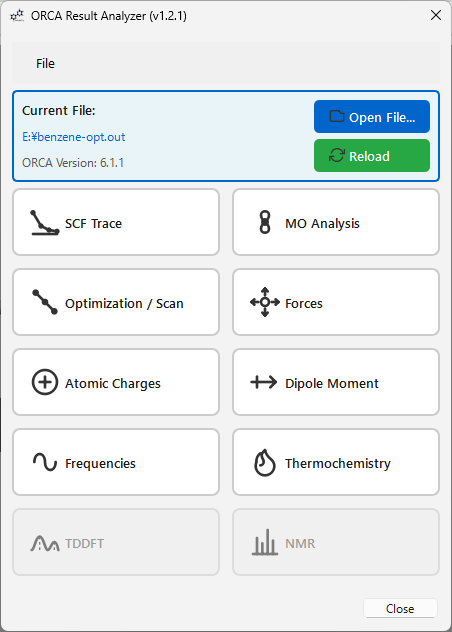
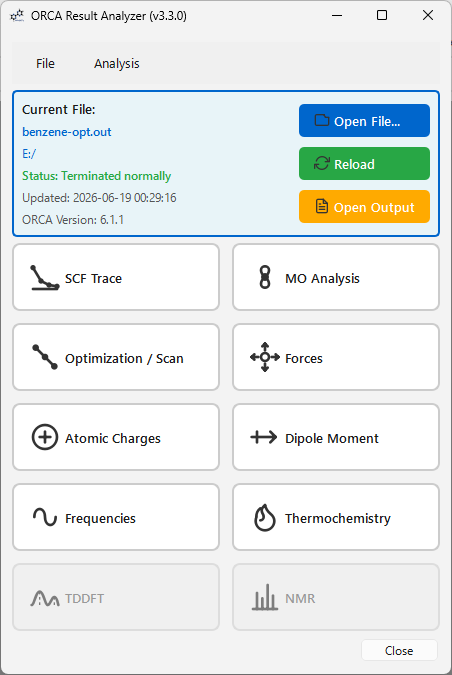
Implement ORCA run status parser/UI visualization, Open Output button/menu, and bump version to v3.3.0

diff --git a/orca_result_analyzer/gui.py b/orca_result_analyzer/gui.py
@@ -14,8 +14,8 @@ from PyQt6.QtWidgets import (
     QSizePolicy,
     QApplication,
 )
-from PyQt6.QtGui import QAction, QIcon
-from PyQt6.QtCore import QSize, Qt, QObject, QEvent
+from PyQt6.QtGui import QAction, QIcon, QDesktopServices
+from PyQt6.QtCore import QSize, Qt, QObject, QEvent, QUrl
 from .parser import OrcaParser
 
 
@@ -152,6 +152,12 @@ class OrcaResultAnalyzerDialog(QDialog):
         reload_action.triggered.connect(self.reload_file)
         file_menu.addAction(reload_action)
 
+        view_output_action = QAction("Open &Output File", self)
+        view_output_action.setShortcut("Ctrl+Shift+O")
+        view_output_action.setIcon(self.get_icon("menu_output.svg"))
+        view_output_action.triggered.connect(self.open_output_file)
+        file_menu.addAction(view_output_action)
+
         file_menu.addSeparator()
 
         close_action = QAction("&Close", self)
@@ -225,6 +231,28 @@ class OrcaResultAnalyzerDialog(QDialog):
         )
         file_info_layout.addWidget(self.lbl_file_dir)
 
+        # ORCA Run Status Label
+        status_str = (
+            self.parser.data.get("termination_status", "Running") if self.parser else "Unknown"
+        )
+        self.lbl_status = QLabel(f"Status: {status_str}")
+        self.lbl_status.setStyleSheet(
+            "font-size: 9pt; font-weight: bold; background: transparent; border: none; padding: 0;"
+        )
+        if "Terminated normally" in status_str:
+            self.lbl_status.setStyleSheet(
+                "color: #28a745; font-size: 9pt; font-weight: bold; background: transparent; border: none; padding: 0;"
+            )
+        elif "Running" in status_str:
+            self.lbl_status.setStyleSheet(
+                "color: #fd7e14; font-size: 9pt; font-weight: bold; background: transparent; border: none; padding: 0;"
+            )
+        else:
+            self.lbl_status.setStyleSheet(
+                "color: #dc3545; font-size: 9pt; font-weight: bold; background: transparent; border: none; padding: 0;"
+            )
+        file_info_layout.addWidget(self.lbl_status)
+
         # Updated Time Label
         self.lbl_updated = QLabel("Updated: ---")
         self.lbl_updated.setStyleSheet(
@@ -297,6 +325,30 @@ class OrcaResultAnalyzerDialog(QDialog):
         """)
         btn_reload.clicked.connect(self.reload_file)
         btns_top_layout.addWidget(btn_reload)
+
+        # Open Output Button
+        self.btn_view_output = QPushButton("Open Output")
+        self.btn_view_output.setIcon(self.get_icon("menu_output.svg"))
+        self.btn_view_output.setStyleSheet("""
+            QPushButton {
+                background-color: #ffaa00;
+                color: white;
+                font-size: 10pt;
+                font-weight: bold;
+                padding: 8px 15px;
+                border-radius: 5px;
+                border: none;
+                text-align: left;
+            }
+            QPushButton:hover {
+                background-color: #ff9900;
+            }
+            QPushButton:pressed {
+                background-color: #e68a00;
+            }
+        """)
+        self.btn_view_output.clicked.connect(self.open_output_file)
+        btns_top_layout.addWidget(self.btn_view_output)
 
         file_frame_layout.addLayout(btns_top_layout)
 
@@ -699,12 +751,37 @@ class OrcaResultAnalyzerDialog(QDialog):
         if getattr(self, "lbl_version", None) is not None:
             self.lbl_version.setText(f"ORCA Version: {v}")
 
+        # ORCA Run Status
+        status = self.parser.data.get("termination_status", "Running") if self.parser else "Unknown"
+        if getattr(self, "lbl_status", None) is not None:
+            self.lbl_status.setText(f"Status: {status}")
+            if "Terminated normally" in status:
+                self.lbl_status.setStyleSheet(
+                    "color: #28a745; font-size: 9pt; font-weight: bold; background: transparent; border: none; padding: 0;"
+                )
+            elif "Running" in status:
+                self.lbl_status.setStyleSheet(
+                    "color: #fd7e14; font-size: 9pt; font-weight: bold; background: transparent; border: none; padding: 0;"
+                )
+            else:
+                self.lbl_status.setStyleSheet(
+                    "color: #dc3545; font-size: 9pt; font-weight: bold; background: transparent; border: none; padding: 0;"
+                )
+
     def reload_file(self):
         if self.file_path and os.path.exists(self.file_path):
             self.load_file(self.file_path)
         else:
             QMessageBox.warning(
                 self, "Error", "No file currently loaded or file not found."
+            )
+
+    def open_output_file(self):
+        if self.file_path and os.path.exists(self.file_path):
+            QDesktopServices.openUrl(QUrl.fromLocalFile(self.file_path))
+        else:
+            QMessageBox.warning(
+                self, "Error", "No output file path available or file does not exist."
             )
 
     def update_button_states(self):

diff --git a/tests/test_parser.py b/tests/test_parser.py
@@ -848,5 +848,65 @@ class TestParseMayerBondOrders(unittest.TestCase):
         self.assertEqual(p.data["mayer_bond_orders"], [])
 
 
+# ---------------------------------------------------------------------------
+# TestParseTerminationStatus
+# ---------------------------------------------------------------------------
+
+
+class TestParseTerminationStatus(unittest.TestCase):
+    def test_running_by_default(self):
+        p = _parse_method("Some running calculation lines\n", "parse_basic")
+        self.assertEqual(p.data["termination_status"], "Running")
+
+    def test_terminated_normally(self):
+        content = (
+            "Some lines...\n"
+            "****ORCA TERMINATED NORMALLY****\n"
+            "Some trailing blank lines\n"
+        )
+        p = _parse_method(content, "parse_basic")
+        self.assertEqual(p.data["termination_status"], "Terminated normally")
+
+    def test_module_error_termination(self):
+        content = (
+            "Some lines...\n"
+            "ORCA finished by error termination in ORCA_GSTEP\n"
+        )
+        p = _parse_method(content, "parse_basic")
+        self.assertEqual(p.data["termination_status"], "ERROR")
+
+    def test_input_error_with_file_line(self):
+        content = (
+            "            !!!!!!!!!!!!!!!!!!!!!!!!!!!!!!!!!!!!!!!!!!!!!!!!!!!!!!!!\n"
+            "                                 INPUT ERROR\n"
+            "            UNRECOGNIZED OR DUPLICATED KEYWORD(S) IN SIMPLE INPUT LINE\n"
+            "                       MK  \n"
+            "            !!!!!!!!!!!!!!!!!!!!!!!!!!!!!!!!!!!!!!!!!!!!!!!!!!!!!!!!\n"
+            "[file orca_main/main_input_keywordline.cpp, line 13872]: \n"
+        )
+        p = _parse_method(content, "parse_basic")
+        self.assertEqual(p.data["termination_status"], "ERROR")
+
+    def test_error_bang_with_file_line(self):
+        content = (
+            "    ----------------------------------------------------------------------------\n"
+            "                                   ERROR !!!\n"
+            "       The optimization did not converge but reached the maximum \n"
+            "    ----------------------------------------------------------------------------\n"
+            "\n"
+            "[file orca_main/run.cpp, line 12331]: ORCA finished with error return - aborting the run\n"
+        )
+        p = _parse_method(content, "parse_basic")
+        self.assertEqual(p.data["termination_status"], "ERROR")
+
+    def test_error_return_with_file_line_no_highlevel(self):
+        content = (
+            "Random lines...\n"
+            "[file orca_main/run.cpp, line 12331]: ORCA finished with error return - aborting the run\n"
+        )
+        p = _parse_method(content, "parse_basic")
+        self.assertEqual(p.data["termination_status"], "ERROR")
+
+
 if __name__ == "__main__":
     unittest.main()

diff --git a/orca_result_analyzer/parser.py b/orca_result_analyzer/parser.py
@@ -1,4 +1,5 @@
 import math
+import os
 import re
 import logging
 
@@ -29,6 +30,7 @@ class OrcaParser:
             "version": None,
             "scan_steps": [],
             "all_steps": [],
+            "termination_status": "Running",
         }
 
     def parse_xyz_content(self, content):
@@ -246,6 +248,32 @@ class OrcaParser:
                             [float(parts[1]), float(parts[2]), float(parts[3])]
                         )
                     curr += 1
+        self.parse_termination_status()
+
+    def parse_termination_status(self):
+        """Parse the termination status from the bottom of the file."""
+        self.data["termination_status"] = "Running"
+        if not self.lines:
+            return
+
+        # Check last 100 lines
+        last_lines = self.lines[-100:]
+        content_block = "\n".join(last_lines)
+        uu_block = content_block.upper()
+
+        if "ORCA TERMINATED NORMALLY" in uu_block:
+            self.data["termination_status"] = "Terminated normally"
+            return
+
+        # Check if there is any error signature
+        if (
+            "ORCA FINISHED BY ERROR TERMINATION" in uu_block
+            or "INPUT ERROR" in uu_block
+            or "ERROR !!!" in uu_block
+            or "ORCA FINISHED WITH ERROR RETURN" in uu_block
+            or re.search(r"\[file\s+[^,\]]+,\s*line\s*\d+\]", content_block, re.IGNORECASE)
+        ):
+            self.data["termination_status"] = "ERROR"
 
     def parse_trajectory(self):
         """Parse Optimization, Scan, and NEB Trajectories."""

diff --git a/orca_result_analyzer/__init__.py b/orca_result_analyzer/__init__.py
@@ -1,5 +1,5 @@
 PLUGIN_NAME = "ORCA Result Analyzer"
-PLUGIN_VERSION = "3.2.1"
+PLUGIN_VERSION = "3.3.0"
 PLUGIN_AUTHOR = "HiroYokoyama"
 PLUGIN_DESCRIPTION = "Comprehensive analyzer for ORCA output files (.out). Includes Vibrational, MO, TDDFT, and NMR analysis."
 PLUGIN_SUPPORTED_MOLEDITPY_VERSION = ">=4.0.0, <5.0.0"